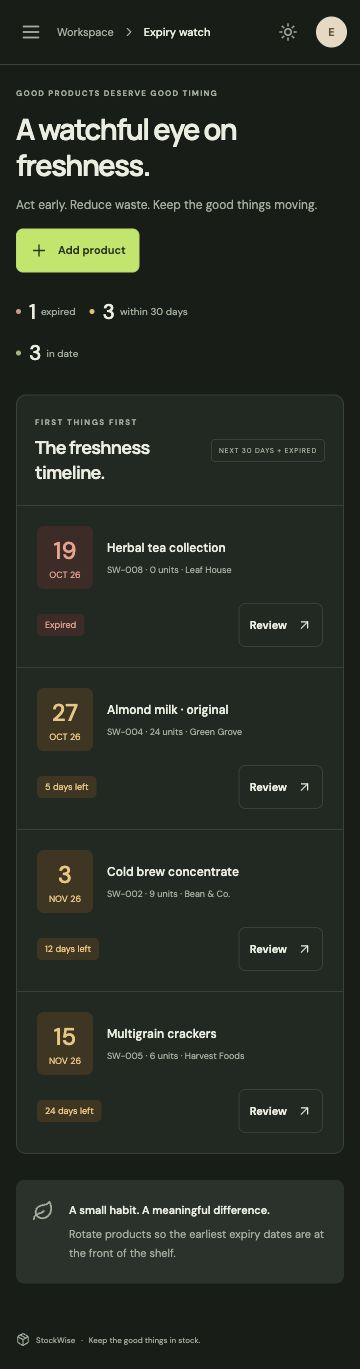
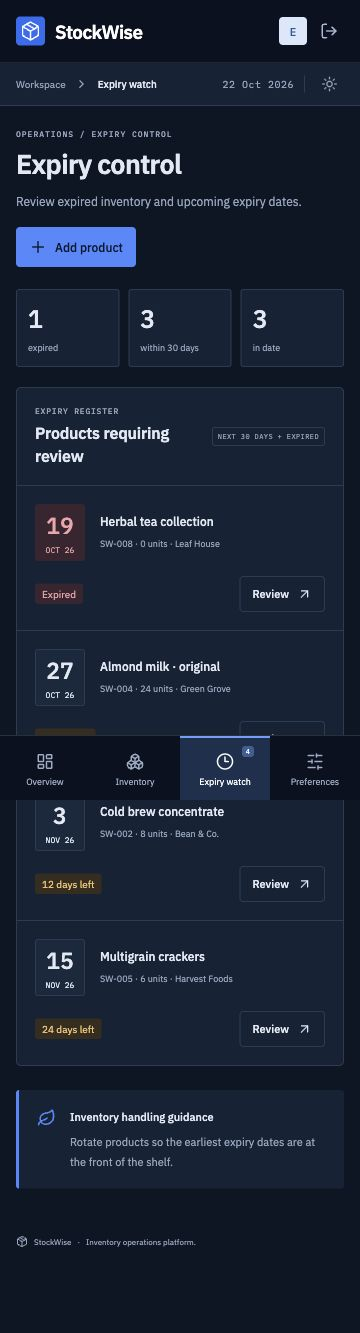
Refresh screenshots and verification for the new interface

diff --git a/docs/TESTING.md b/docs/TESTING.md
@@ -38,9 +38,11 @@ Verified in the browser:
 - Logout followed by a direct protected-route visit redirects to login.
 - Desktop light/dark themes render correctly.
 - Mobile inventory uses stacked cards at 390px.
-- Mobile navigation opens and the expiry view is reachable.
+- Fixed mobile navigation switches between the catalog and expiry view.
 - The expiry timeline renders at 360px.
 - Document width equals viewport width at 390px and 360px (no horizontal page overflow).
+
+The redesigned interface was rechecked on 22 October 2026: registration, sample loading, desktop light/dark themes, the 390px catalog and the 360px expiry view. Both phone widths had no horizontal page overflow.
 
 Saved evidence in `docs/screenshots/`:
 
